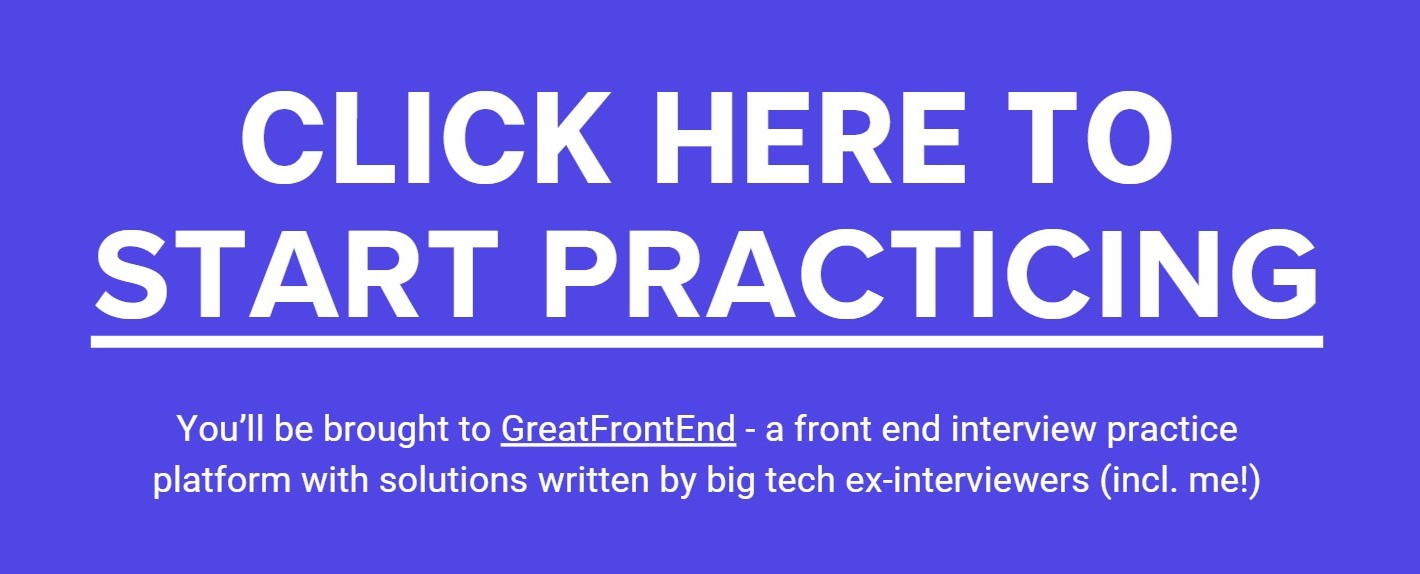
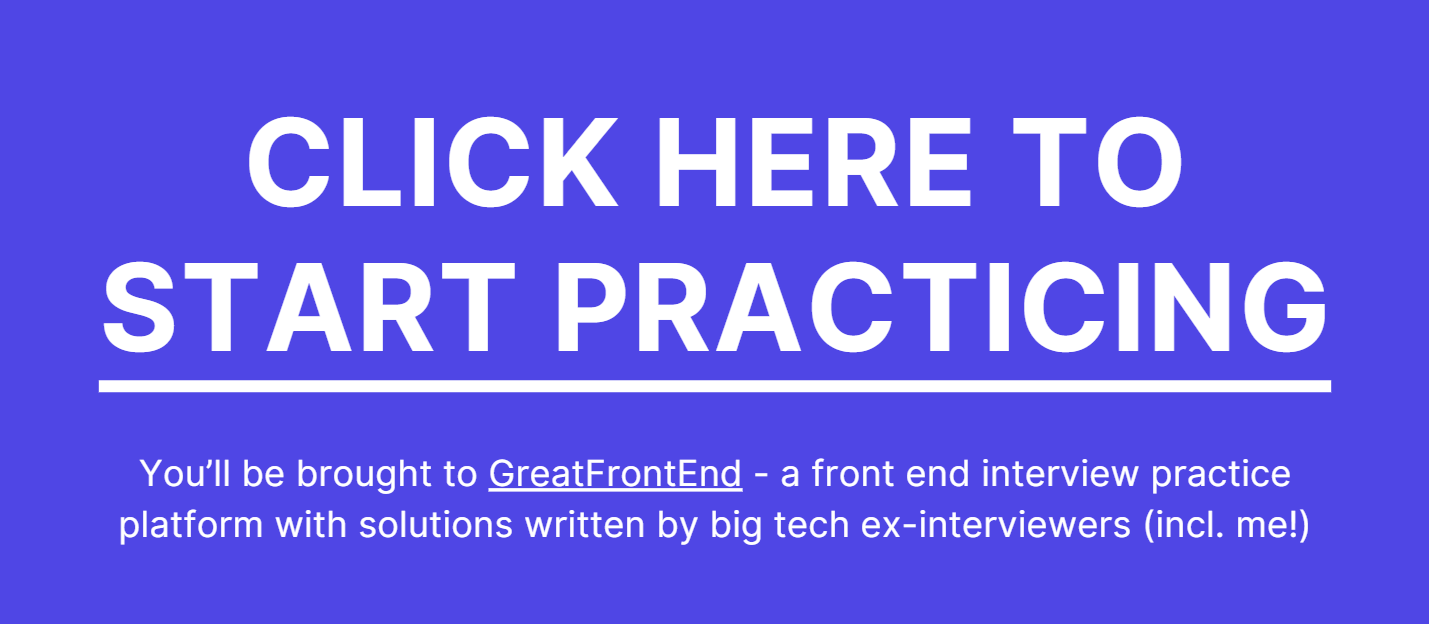
misc: change promotional text in README  (#413)

diff --git a/README.md b/README.md
@@ -38,10 +38,25 @@ Unlike typical software engineer job interviews, front end job interviews have l
 - [Front end questions](https://www.frontendinterviewhandbook.com/coding/javascript-utility-function/) - JavaScript, DOM, algorithms, and more
 - [Front end interview questions by companies](https://www.frontendinterviewhandbook.com/company-interview-questions/)
 
+## Where to get hands on practice?
+
+<div align="center">
+  <a href="https://www.greatfrontend.com">
+    <img src="assets/mark-brand-light.png" alt="GreatFrontEnd" width="400"/>
+  </a>
+</div>
+
+After getting a good understanding about front end interview preparation, try out [GreatFrontEnd](https://www.greatfrontend.com), a platform built by me! Not only that there are 200+ practice questions, each with multiple solutions from senior front end engineers, there are also automated test case suites to help you identify what's wrong with your code. Thus, check out the following resources:
+
+- [Study plans](https://www.greatfrontend.com/study-plans) help you prepare for your upcoming technical interviews, whether it is in a week or 3 months later.
+- [Focus areas](https://www.greatfrontend.com/focus-areas) allow you to focus on your weak areas and also further improve your strengths depending on your preferences.
+- [Preparation by stage](https://www.greatfrontend.com/prepare) prepares you for each phase of your interview process, from quiz to coding interviews. 
+- [Individual framework questions](https://www.greatfrontend.com/questions) offer training based on specific frameworks that may be tested during your technical interviews.
+
 ---
 
 <div align="center">
-  <h3>💡 Preparing for front end interviews? <a href="https://www.greatfrontend.com">GreatFrontEnd</a> is offering 25% off its lifetime plan of high quality practice questions and solutions written by ex-FAANG Engineers 💡</h3>
+  <h3>Need to practice front end interview questions? <a href="https://www.greatfrontend.com">GreatFrontEnd</a> is holding a limited time promotion for 20% off their lifetime plan of high quality practice questions and reference solutions written by ex-FAANG interviewers 🚀</h3>
 </div>
 
 ---
